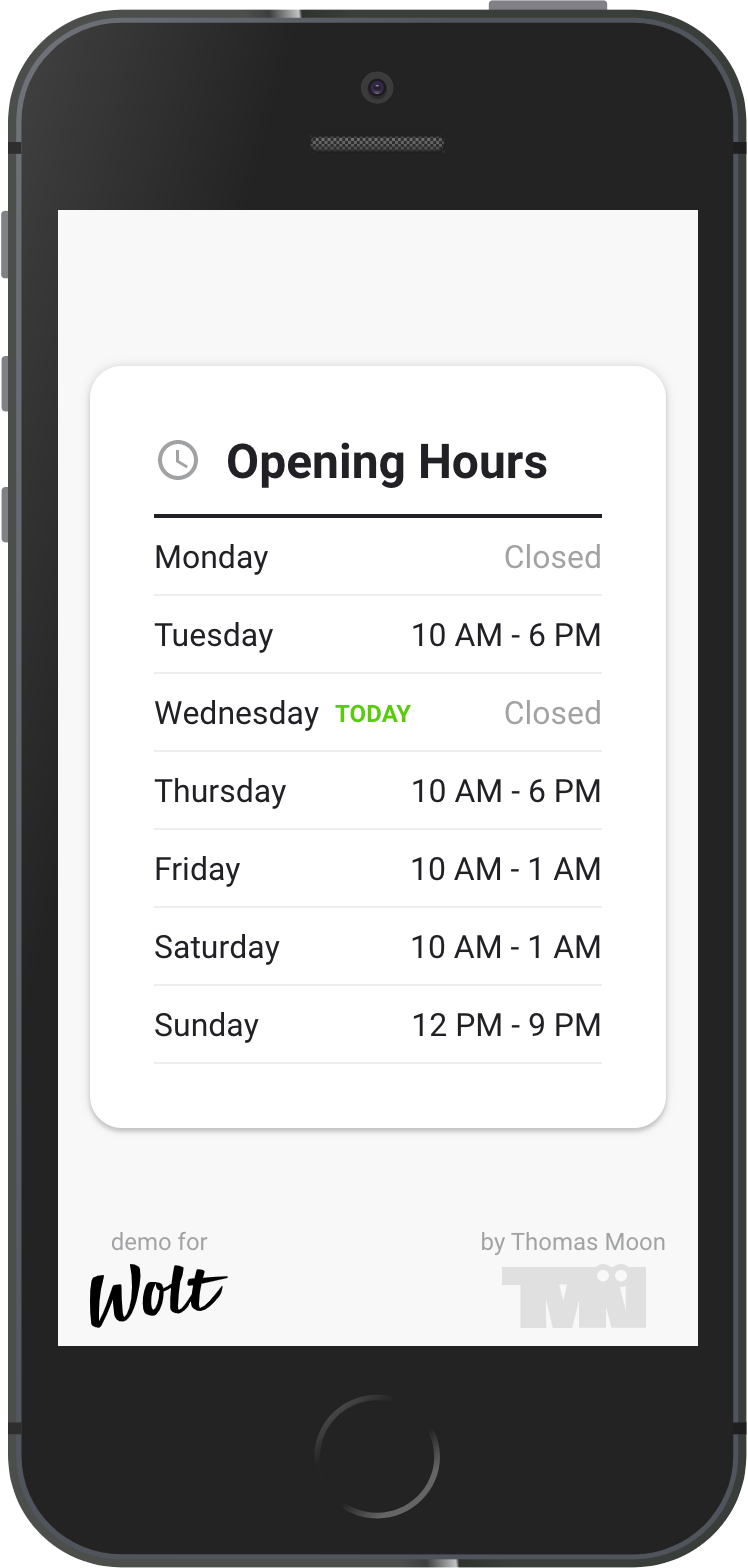
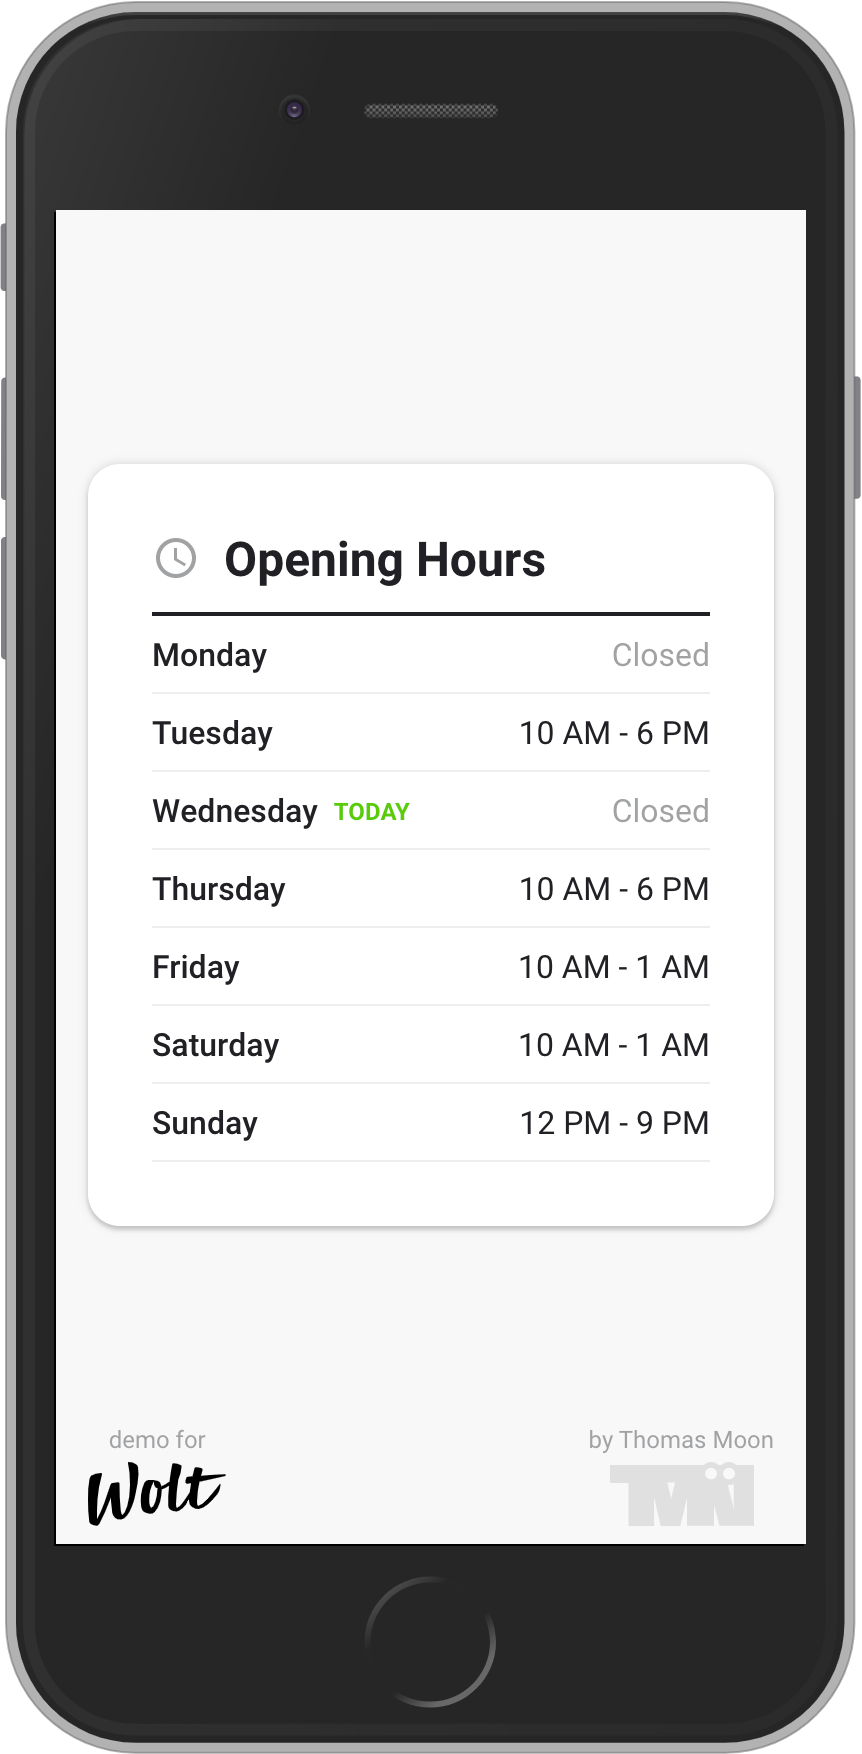
Fix font weights, added medium.

diff --git a/public/index.html b/public/index.html
@@ -30,7 +30,7 @@
 
     <link rel="manifest" href="%PUBLIC_URL%/manifest.json" />
 
-    <link href="https://fonts.googleapis.com/css2?family=Roboto:wght@400;700&display=swap" rel="stylesheet">
+    <link href="https://fonts.googleapis.com/css2?family=Roboto:wght@400;500;700&display=swap" rel="stylesheet">
 
     <title>Opening Hours</title>
   </head>

diff --git a/src/components/OpeningHours/OpeningHours.scss b/src/components/OpeningHours/OpeningHours.scss
@@ -46,6 +46,7 @@ h1 {
 
   .name {
     position: relative;
+    font-weight: 500;
 
     .today {
       position: absolute;
